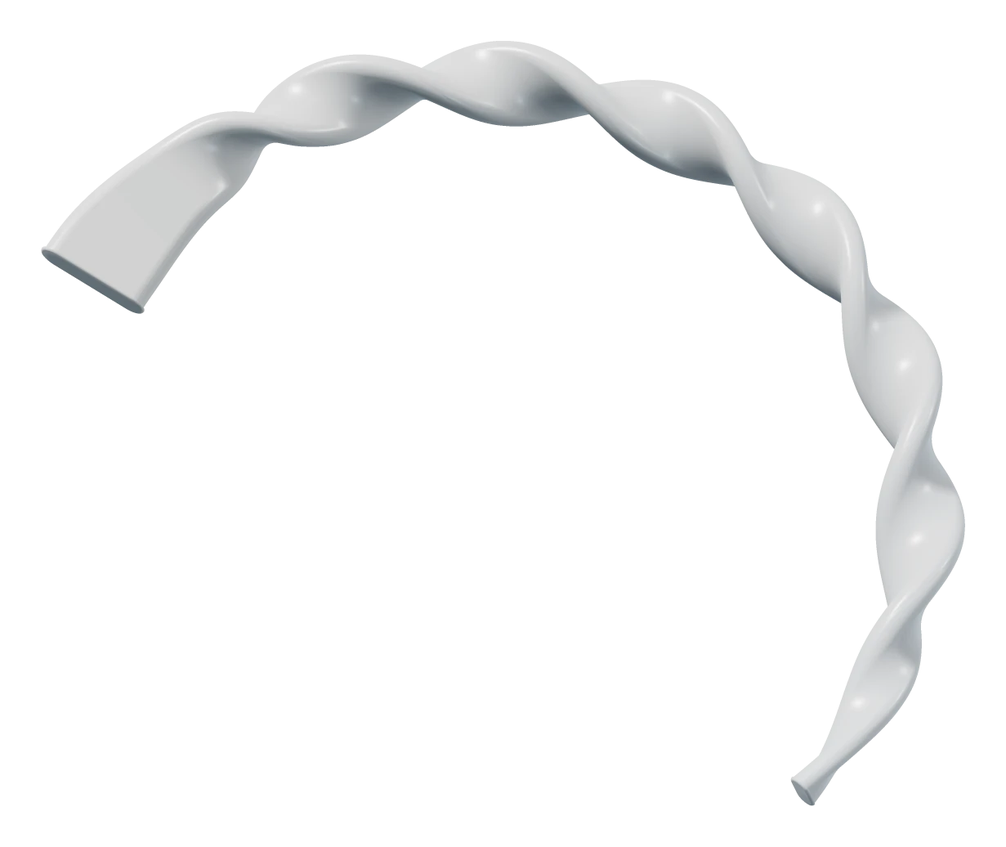
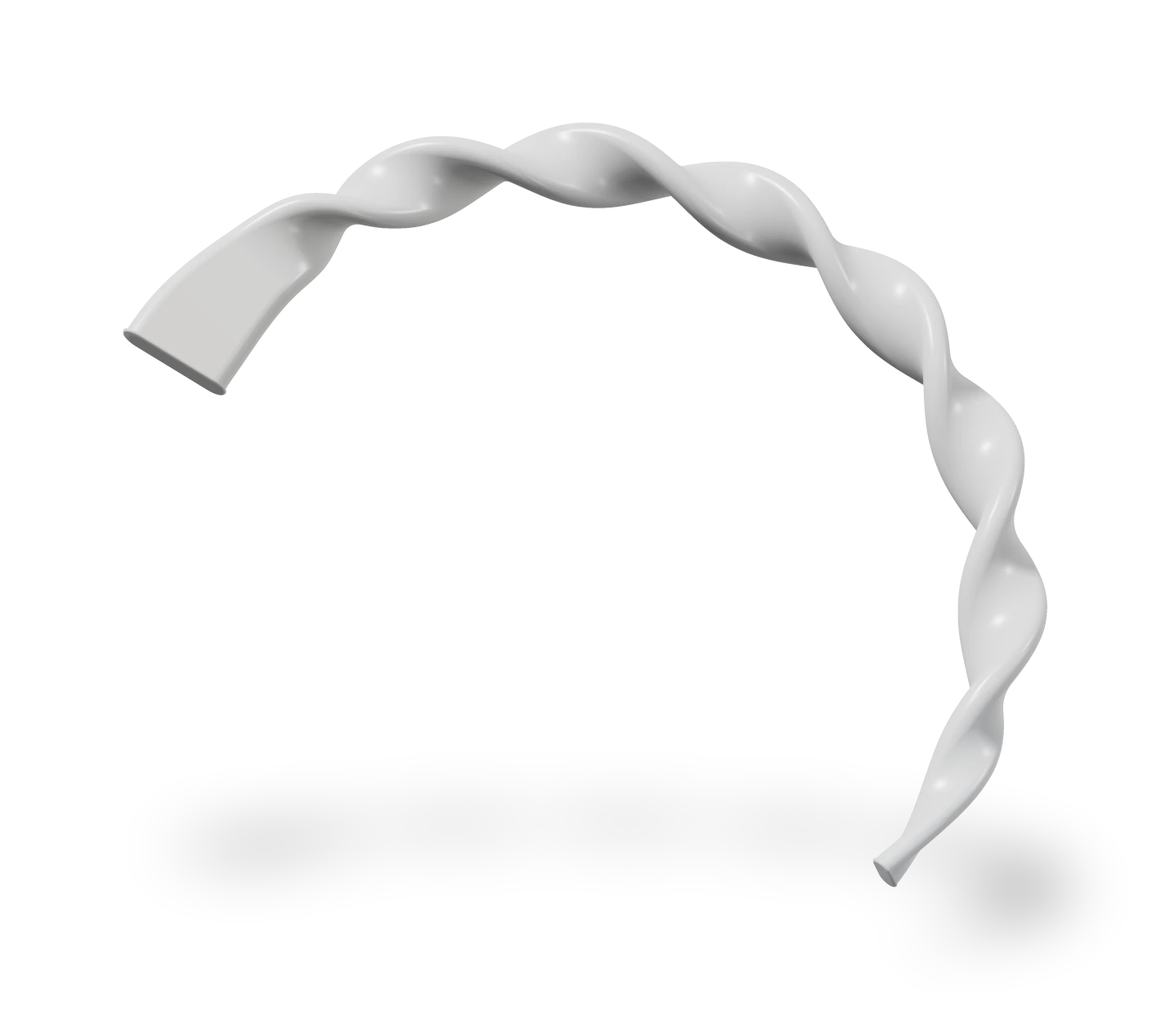
q3medical TOP-FIX B: one-colour H1; stent re-rendered with neutral light (render_b.js), soft floor shadow baked in, no slate or cool glow, neutral falloff; step 5 scroll
Claude-Session: https://claude.ai/code/session_014388NG1Z4TasdQgjB48bmb

Changed region(s): [[0.0309, 0.0309, 0.9569, 0.9575]]

diff --git a/_kit/home/q3medical/render_b.js b/_kit/home/q3medical/render_b.js
@@ -1,0 +1,109 @@
+// VARIANT B (TOP-FIX 2026-11-27; run: node render_b.js out.png 1604 1260 3, crop to the sent hero's 1231x1036 frame, then python3 shadow.py out.png hero.webp 100 - .16 .86 .03: a flat soft band on the floor under the arc, not a ghost arc inside it): render.js with neutral light only (BL fill/rim/strip grey instead of blue); key stays upper left = the headline side.
+/* Offline render of the Q3 Medical hero (HOME_BRIEF update option c, PRINCIPLES DS/DD/DT): the ARCHIMEDES biodegradable
+   biliary and pancreatic stent itself, as shown on q3medical.com/biodegradable.html (prod_archimedes.jpg): a satin, pearl-white
+   polymer band twisted into a helix (the "Archimedes screw" that gives it its name), lying in an open arc, with a flat untwisted
+   tab at its proximal end and a tapered distal tip. One calm object on the page ink. Raymarched in GLSL with studio softbox
+   reflections and a soft wrap/subsurface term for the polymer; real alpha, no box edge (DJ/DP).
+   Run: node _kit/home/q3medical/render.js out.png 1400 1100 3 */
+const {chromium}=require('playwright');const fs=require('fs');const path=require('path');
+const W=+(process.argv[3]||1400),H=+(process.argv[4]||1100),SS=+(process.argv[5]||3);
+const FS=`
+precision highp float;
+uniform vec2 R;
+#define PI 3.14159265
+const float RR=1.0,A0=-2.95,A1=0.50,HW=.100,HT=.036,TW=7.6;
+mat3 rx(float a){float c=cos(a),s=sin(a);return mat3(1,0,0,0,c,s,0,-s,c);}
+mat3 ry(float a){float c=cos(a),s=sin(a);return mat3(c,0,-s,0,1,0,s,0,c);}
+mat3 rz(float a){float c=cos(a),s=sin(a);return mat3(c,s,0,-s,c,0,0,0,1);}
+mat3 ROT;
+float SV=0.;
+float rbox(vec2 p,vec2 b,float r){vec2 q=abs(p)-b+r;return length(max(q,0.))+min(max(q.x,q.y),0.)-r;}
+/* half-width along the band: a flat, slightly flared tab at A0, a long taper to the tip at A1 */
+float hwAt(float c){float tab=smoothstep(A0+.42,A0+.05,c);float tip=smoothstep(A1-.95,A1,c);return HW*(1.+.30*tab)*(1.-.58*tip*tip);}
+float thAt(float c){float tip=smoothstep(A1-.6,A1,c);return HT*(1.-.35*tip);}
+/* twist angle: none along the tab, then the helix */
+float twAt(float c){float s=c-A0;float r=smoothstep(.18,.62,s);return TW*max(s-.30,0.)*r+.25;}
+/* distance to the band's cross-section at ring angle c, plus the longitudinal coordinate in that frame */
+float sec(vec3 q,float c,out float a){vec3 P=vec3(cos(c),0.,sin(c))*RR,U=vec3(cos(c),0.,sin(c)),T=vec3(-sin(c),0.,cos(c));
+  vec3 d=q-P;a=dot(d,T);float u=dot(d,U),v=d.y;float th=twAt(c);float cs=cos(th),sn=sin(th);
+  vec2 p=vec2(cs*u+sn*v,-sn*u+cs*v);float hw=hwAt(c),ht=thAt(c);return rbox(p,vec2(hw,ht),min(ht*.95,hw));}
+float map(vec3 p){
+  vec3 q=ROT*p;float ph=atan(q.z,q.x);float a;
+  if(ph>=A0&&ph<=A1){SV=(ph-A0)/(A1-A0);return sec(q,ph,a)*.55;}
+  /* outside the arc: distance to whichever end is nearer, as a rounded extrusion cap */
+  float a0,a1;float d0=sec(q,A0,a0),d1=sec(q,A1,a1);
+  float e0=-a0,e1=a1;
+  float r0=length(vec2(max(d0,0.),max(e0,0.)))+min(max(d0,e0),0.);
+  float r1=length(vec2(max(d1+.004,0.),max(e1,0.)))+min(max(d1,e1),0.);
+  /* round the tip: shrink the cap a touch with distance past the end */
+  if(r0<r1){SV=0.;return (r0-.006)*.6;}SV=1.;return (r1-.006)*.6;}
+float mapd(vec3 p){float s=SV;float d=map(p);SV=s;return d;}
+vec3 nrm(vec3 p){vec2 e=vec2(.0005,0.);return normalize(vec3(mapd(p+e.xyy)-mapd(p-e.xyy),mapd(p+e.yxy)-mapd(p-e.yxy),mapd(p+e.yyx)-mapd(p-e.yyx)));}
+float box2(vec2 p,vec2 c,vec2 h,float s){vec2 d=abs(p-c)-h;float o=length(max(d,0.))+min(max(d.x,d.y),0.);return 1.-smoothstep(-s,s,o);}
+vec3 BL=vec3(.70,.70,.70); /* TOP-FIX B 2026-11-27: the cool fill, bounce strip and rim are neutral now (was .55,.74,.88) */
+vec3 env(vec3 d){float az=atan(d.x,d.z),el=asin(clamp(d.y,-1.,1.));vec3 c=vec3(.006,.010,.016)+vec3(.03,.035,.045)*max(d.y,0.);
+  c+=vec3(1.,.99,.97)*2.0*box2(vec2(az,el),vec2(-.6,.85),vec2(.70,.30),.30);
+  c+=vec3(.95,.97,1.)*.9*box2(vec2(az,el),vec2(.9,.30),vec2(.30,.22),.20);
+  c+=BL*.8*box2(vec2(az,el),vec2(2.3,.05),vec2(.40,.5),.30);
+  c+=vec3(.7,.74,.8)*.30*box2(vec2(az,el),vec2(0.,-.9),vec2(1.2,.25),.4);
+  return c;}
+vec3 L1=normalize(vec3(-.6,.75,.50)),L2=normalize(vec3(.8,.3,.3)),L3=normalize(vec3(.3,-.5,.6));
+float ggx(vec3 n,vec3 v,vec3 l,float r){vec3 h=normalize(v+l);float a=r*r,nh=max(dot(n,h),0.);float dd=nh*nh*(a*a-1.)+1.;return a*a/(PI*dd*dd);}
+float ao(vec3 p,vec3 n){float o=0.,s=1.;for(int i=1;i<5;i++){float h=.010*float(i);o+=(h-mapd(p+n*h))*s;s*=.65;}return clamp(1.-3.5*o,0.,1.);}
+float sha(vec3 p,vec3 l){float r=1.,t=.01;for(int i=0;i<48;i++){float h=mapd(p+l*t);r=min(r,10.*h/t);t+=clamp(h,.004,.06);if(r<.01||t>2.5)break;}return clamp(r,0.,1.);}
+vec3 aces(vec3 x){return clamp((x*(2.51*x+.03))/(x*(2.43*x+.59)+.14),0.,1.);}
+vec4 trace(vec3 ro,vec3 rd){
+  float t=0.,d;bool hit=false;
+  for(int i=0;i<320;i++){vec3 p=ro+rd*t;d=map(p);if(d<.0002){hit=true;break;}t+=d;if(t>9.)break;}
+  if(!hit)return vec4(0.);
+  vec3 p=ro+rd*t,v=-rd;float sv=SV;vec3 n=nrm(p);
+  /* satin pearl polymer, faintly warmer toward the tab */
+  vec3 base=mix(vec3(.90,.89,.87),vec3(.87,.89,.91),sv);float rough=.30;
+  float oc=ao(p,n);vec3 col=vec3(0.);
+  float nv=max(dot(n,v),0.);vec3 F0=vec3(.04);vec3 F=F0+(1.-F0)*pow(1.-nv,5.);
+  for(int i=0;i<3;i++){vec3 l=i==0?L1:(i==1?L2:L3);float k=i==0?1.15:(i==1?.34:.16);vec3 lc=i==2?BL:vec3(1.);
+    float nl=dot(n,l);float dl=max(nl,0.);float wrap=max((nl+.45)/1.45,0.);float sh=i==0?mix(.22,1.,sha(p+n*.003,l)):1.;
+    col+=lc*k*sh*(base/PI*3.*mix(dl,wrap,.30)+F*ggx(n,v,l,rough)*.8);}
+  /* soft translucency: light scattering through the thin polymer */
+  col+=vec3(1.,.97,.92)*.10*pow(max(dot(-n,L1),0.),1.5);
+  vec3 r=reflect(rd,n);vec3 e=env(r);
+  col+=e*F*.55*oc;
+  col+=base*.035*oc;
+  col+=BL*.22*pow(1.-nv,3.)*oc;
+  col*=mix(.6,1.,oc);
+  float fade=1.;
+  return vec4(col,fade);}
+void main(){
+  ROT=ry(.20)*rx(-1.22)*rz(.10);
+  vec3 ro0=vec3(0.,0.,5.2),ta=vec3(0.,.0,0.);
+  vec3 ww=normalize(ta-ro0),uu=normalize(cross(ww,vec3(0,1,0))),vv=cross(uu,ww);
+  vec4 acc=vec4(0.);float n=float(${SS});
+  for(int j=0;j<${SS};j++)for(int i=0;i<${SS};i++){
+    vec2 o=(vec2(float(i),float(j))+.5)/n-.5;
+    vec2 uv=(gl_FragCoord.xy+o-.5*R)/R.y;
+    vec3 rd=normalize(uv.x*uu+uv.y*vv+2.25*ww);
+    vec4 s=trace(ro0,rd);acc+=vec4(s.rgb*s.a,s.a);}
+  acc/=n*n;vec3 c=acc.a>0.?acc.rgb/acc.a:vec3(0.);
+  c=pow(aces(c*.74),vec3(1./2.2));
+  gl_FragColor=vec4(c,acc.a);}
+`;
+const PAGE=`<!doctype html><html><body style="margin:0;background:transparent"><canvas id="c" width="${W}" height="${H}"></canvas><script>
+const cv=document.getElementById('c');const gl=cv.getContext('webgl',{preserveDrawingBuffer:true,premultipliedAlpha:false,alpha:true,antialias:false});
+function sh(t,s){const o=gl.createShader(t);gl.shaderSource(o,s);gl.compileShader(o);if(!gl.getShaderParameter(o,gl.COMPILE_STATUS))throw Error(gl.getShaderInfoLog(o));return o}
+const pr=gl.createProgram();gl.attachShader(pr,sh(gl.VERTEX_SHADER,'attribute vec2 a;void main(){gl_Position=vec4(a,0.,1.);}'));
+gl.attachShader(pr,sh(gl.FRAGMENT_SHADER,${JSON.stringify(FS)}));gl.linkProgram(pr);if(!gl.getProgramParameter(pr,gl.LINK_STATUS))throw Error(gl.getProgramInfoLog(pr));gl.useProgram(pr);
+const b=gl.createBuffer();gl.bindBuffer(gl.ARRAY_BUFFER,b);gl.bufferData(gl.ARRAY_BUFFER,new Float32Array([-1,-1,1,-1,-1,1,1,1]),gl.STATIC_DRAW);
+const al=gl.getAttribLocation(pr,'a');gl.enableVertexAttribArray(al);gl.vertexAttribPointer(al,2,gl.FLOAT,false,0,0);
+gl.uniform2f(gl.getUniformLocation(pr,'R'),${W},${H});
+gl.clearColor(0,0,0,0);gl.clear(gl.COLOR_BUFFER_BIT);gl.enable(gl.SCISSOR_TEST);
+const T=40;let y=0;(function tile(){if(y>=${H}){window.__done=cv.toDataURL('image/png');return}gl.scissor(0,y,${W},T);gl.drawArrays(gl.TRIANGLE_STRIP,0,4);gl.finish();y+=T;setTimeout(tile,0)})();
+</script></body></html>`;
+(async()=>{
+const b=await chromium.launch({args:['--use-gl=angle','--use-angle=swiftshader','--enable-unsafe-swiftshader','--ignore-gpu-blocklist','--disable-gpu-watchdog']});
+const p=await b.newPage({viewport:{width:800,height:600}});
+p.on('console',m=>{if(!/Performance/.test(m.text()))console.log('page:',m.text())});p.on('pageerror',e=>{console.log('err',e.message);process.exit(1)});
+await p.setContent(PAGE);
+await p.waitForFunction(()=>window.__done,null,{timeout:3600000,polling:1000});
+const out=process.argv[2]||path.join(__dirname,'render.png');
+fs.writeFileSync(out,Buffer.from((await p.evaluate(()=>window.__done)).split(',')[1],'base64'));
+console.log('wrote',out);await b.close();})();

diff --git a/_kit/src/q3medical.src.html b/_kit/src/q3medical.src.html
@@ -850,6 +850,8 @@ div.mh-row{grid-template-columns:minmax(0,4fr) minmax(0,3fr) minmax(0,5fr) 24px}
 .pfr .tg b{color:var(--accL)}
 .ev dd{font-size:clamp(18px,1.4vw,21px)}
 .cinfo p a{font-size:.9em}
+/* TOP-FIX 2026-11-27: the hero headline in one colour and one style (no italic accent second line) */
+.hero-h em{font-style:normal;font-weight:inherit;color:inherit}
 </style>
 </head>
 </head>
@@ -1100,11 +1102,12 @@ function unmask(s){if(!s)return;(s.masks||[]).forEach(function(m){m.style.overfl
 /*<R:field>*//* ================= HERO FIELD: a crafted render of Q3 Medical's real product (HOME_BRIEF update 2c): the ARCHIMEDES
    biodegradable biliary and pancreatic stent, a satin pearl polymer band twisted into a helix, lying in an open arc with its
    flat tab and tapered tip, as on q3medical.com/biodegradable.html. Raymarched offline by render.js with real alpha, baked to
-   hero.webp; here it breathes in a slow Ken Burns drift with a faint cool glow behind it. On phones it sits in the top band
+   hero.webp; here it breathes in a slow Ken Burns drift. TOP-FIX B 2026-11-27: re-rendered by render_b.js with neutral
+   light only, a soft cast shadow baked in (shadow.py), no glow behind it. On phones it sits in the top band
    and fades into the ink above the text (CW). ================= */
 var field=(function(){
   var cv=$("#field"),c=cv.getContext("2d"),dpr=1,w=0,h=0,running=false,raf=0,t0=performance.now(),shown=false;
-  var IN={v:1},dim=1,dimT=1,SP={v:0},G=null,img=new Image(),ok=false;
+  var IN={v:1},dim=1,dimT=1,SP={v:0},HY=0,G=null,img=new Image(),ok=false;
   var BG="#121820";
   img.decoding="async";img.onload=function(){ok=true;if(!running)frame(true)};img.src="hero.webp";
   function h1r(){var r=0;["#view .hero h1","#view .hero .eyebrow","#view .hero-foot p"].forEach(function(q){var e=document.querySelector(q);if(!e)return;try{var tw=document.createTreeWalker(e,4),n,g=document.createRange();while(n=tw.nextNode()){if(!n.nodeValue.trim())continue;g.selectNodeContents(n);[].forEach.call(g.getClientRects(),function(b){if(b.width>0&&b.right>r)r=b.right})}}catch(_){}});return r}
@@ -1132,18 +1135,14 @@ var field=(function(){
     if(ok){
       /* a very slow breath: push in ~3% and drift up a touch over ~44s, eased back and forth (scaled about the image centre) */
       var k=.5-.5*Math.cos(t*Math.PI*2/44),sc=(1+.03*k)*(1+.035*(1-e));
-      var dw=G.iw*sc,dh=G.ih*sc,x=G.kx-dw*.5,y=G.ky-dh*.5-k*G.ih*.008-SP.v*G.ih*.05;
-      /* a low slate glow, painted across the WHOLE canvas (never inside the image rect alone), so no edge of the
-         baked render can read as a pasted box (DJ) */
-      var ggx=G.mob?w*.5:G.kx,ggy=G.mob?G.bh*.45:h*.48,ggr=Math.max(w,h)*.7;
-      var ag=c.createRadialGradient(ggx,ggy,0,ggx,ggy,ggr);
-      ag.addColorStop(0,"rgba(34,46,60,"+(.6*e).toFixed(3)+")");ag.addColorStop(.55,"rgba(24,34,46,"+(.3*e).toFixed(3)+")");ag.addColorStop(1,"rgba(18,24,32,0)");
-      c.fillStyle=ag;c.fillRect(0,0,w,h);
-      /* a faint cool glow behind the stent, breathing every ~9s */
-      var pu=.5+.5*Math.sin(t*Math.PI*2/9),px=x+dw*LX,py=y+dh*LY,pr=dw*.40;
-      var rg=c.createRadialGradient(px,py,0,px,py,pr);rg.addColorStop(0,"rgba(127,182,214,"+((.07+.04*pu)*e).toFixed(3)+")");rg.addColorStop(1,"rgba(127,182,214,0)");
-      c.fillStyle=rg;c.fillRect(0,0,w,h);
-      c.globalAlpha=e;c.drawImage(img,x,y,dw,dh);c.globalAlpha=1;
+      var dw=G.iw*sc,dh=G.ih*sc,x=G.kx-dw*.5,y=G.ky-dh*.5-k*G.ih*.008+HY;
+      /* TOP-FIX B: a very faint neutral falloff on the ground, up and toward the headline side (about 2-3%, never coloured) */
+      var fx=G.mob?w*.5:x+dw*.25,fy=G.mob?G.bh*.4:y+dh*.25,fr=Math.max(w,h)*.62;
+      var fo=c.createRadialGradient(fx,fy,0,fx,fy,fr);fo.addColorStop(0,"rgba(255,255,255,"+(.03*e).toFixed(4)+")");fo.addColorStop(.55,"rgba(255,255,255,"+(.011*e).toFixed(4)+")");fo.addColorStop(1,"rgba(255,255,255,0)");
+      c.fillStyle=fo;c.fillRect(0,0,w,h);
+      /* hero.webp carries PAD px of transparent margin with the soft cast shadow, so the stent lands where the sent render put it */
+      var PX=100/1231,PY=100/1036;
+      c.globalAlpha=e;c.drawImage(img,x-dw*PX,y-dh*PY,dw*(1+2*PX),dh*(1+2*PY));c.globalAlpha=1;
       if(!G.mob){
         /* the headline side stays quiet (DI): an ink wash from the left, a soft top and base */
         var lv=c.createLinearGradient(0,0,G.side+G.cw*.54,0);lv.addColorStop(0,"rgba(12,17,23,.95)");lv.addColorStop(.6,"rgba(12,17,23,.55)");lv.addColorStop(1,"rgba(12,17,23,0)");c.fillStyle=lv;c.fillRect(0,0,w,h);
@@ -1163,7 +1162,11 @@ var field=(function(){
   var rzT;addEventListener("resize",function(){clearTimeout(rzT);rzT=setTimeout(size,120)});size();
   /* re-measure the headline once the web fonts and the title reveal have settled, so the 100px clearance holds (DP) */
   try{document.fonts.ready.then(function(){setTimeout(size,60)})}catch(_){}setTimeout(size,2600);setTimeout(size,6500);
-  return {start:start,stop:stop,once:function(){frame(true)},setScroll:function(p){SP.v=Math.round(p*40)/40},
+  return {start:start,stop:stop,once:function(){frame(true)},setScroll:function(p){SP.v=p;
+    /* TOP-FIX step 5 (2026-11-27): the stent scrolls up 1:1 with the hero on desktop (RECIPE_NOTES section 6), back home once the hero has left */
+    var hy=0,hr=G&&!G.mob?document.querySelector("#view #hero"):null;
+    if(hr){var b=hr.getBoundingClientRect();if(b.bottom>0)hy=Math.min(0,b.top)}
+    if(hy!==HY){HY=hy;frame(true)}},
     intro:function(d){if(RM){IN.v=1;return}IN.v=0;gsap.to(IN,{v:1,duration:d,ease:"power2.out"})},setDim:function(d){dimT=d},snapDim:function(d){dim=dimT=d},running:function(){return running},focus:function(){return G?[G.kx,G.ky]:[w/2,h/2]}};
 })();/*</R:field>*/
 
@@ -1501,7 +1504,7 @@ function preload(){
       var tl=gsap.timeline({onComplete:function(){pre.remove();unlockScroll();gsap.set("#hdr",{clearProps:"transform"});hdrTheme();failsafe()}});
       tl.to(o,{n:100,duration:.25,ease:"power1.out",onUpdate:upd},0)
         .to(wm.chars,{yPercent:-120,opacity:0,duration:.38,ease:"power3.in",stagger:.012},.08)
-        .to(["#pre .mk","#pre .cnt","#pre .bar","#pre .pl"],{opacity:0,duration:.3,ease:"power2.in"},.12)
+        .to("#pre .mk",{y:-64,opacity:0,duration:.62,ease:"power3.in"},.04).to(["#pre .cnt","#pre .bar","#pre .pl"],{y:-24,opacity:0,duration:.4,ease:"power2.in"},.1)
         .add(function(){field.intro(2);field.start()},mob?1.0:.95).fromTo("#field",{filter:"opacity(0)"},{filter:"opacity(1)",duration:1.8,ease:"power2.out",clearProps:"filter"},mob?1.0:.95)
         .add(function(){if(window._heroIn)window._heroIn.play()},mob?1.0:.95)
         .to(pre,{yPercent:-100,duration:.85,ease:"flow"},mob?.62:.42)

diff --git a/q3medical/index.html b/q3medical/index.html
@@ -856,6 +856,8 @@ div.mh-row{grid-template-columns:minmax(0,4fr) minmax(0,3fr) minmax(0,5fr) 24px}
 .pfr .tg b{color:var(--accL)}
 .ev dd{font-size:clamp(18px,1.4vw,21px)}
 .cinfo p a{font-size:.9em}
+/* TOP-FIX 2026-11-27: the hero headline in one colour and one style (no italic accent second line) */
+.hero-h em{font-style:normal;font-weight:inherit;color:inherit}
 </style>
 </head>
 </head>
@@ -1666,11 +1668,12 @@ function unmask(s){if(!s)return;(s.masks||[]).forEach(function(m){m.style.overfl
 /*<R:field>*//* ================= HERO FIELD: a crafted render of Q3 Medical's real product (HOME_BRIEF update 2c): the ARCHIMEDES
    biodegradable biliary and pancreatic stent, a satin pearl polymer band twisted into a helix, lying in an open arc with its
    flat tab and tapered tip, as on q3medical.com/biodegradable.html. Raymarched offline by render.js with real alpha, baked to
-   hero.webp; here it breathes in a slow Ken Burns drift with a faint cool glow behind it. On phones it sits in the top band
+   hero.webp; here it breathes in a slow Ken Burns drift. TOP-FIX B 2026-11-27: re-rendered by render_b.js with neutral
+   light only, a soft cast shadow baked in (shadow.py), no glow behind it. On phones it sits in the top band
    and fades into the ink above the text (CW). ================= */
 var field=(function(){
   var cv=$("#field"),c=cv.getContext("2d"),dpr=1,w=0,h=0,running=false,raf=0,t0=performance.now(),shown=false;
-  var IN={v:1},dim=1,dimT=1,SP={v:0},G=null,img=new Image(),ok=false;
+  var IN={v:1},dim=1,dimT=1,SP={v:0},HY=0,G=null,img=new Image(),ok=false;
   var BG="#121820";
   img.decoding="async";img.onload=function(){ok=true;if(!running)frame(true)};img.src="hero.webp";
   function h1r(){var r=0;["#view .hero h1","#view .hero .eyebrow","#view .hero-foot p"].forEach(function(q){var e=document.querySelector(q);if(!e)return;try{var tw=document.createTreeWalker(e,4),n,g=document.createRange();while(n=tw.nextNode()){if(!n.nodeValue.trim())continue;g.selectNodeContents(n);[].forEach.call(g.getClientRects(),function(b){if(b.width>0&&b.right>r)r=b.right})}}catch(_){}});return r}
@@ -1698,18 +1701,14 @@ var field=(function(){
     if(ok){
       /* a very slow breath: push in ~3% and drift up a touch over ~44s, eased back and forth (scaled about the image centre) */
       var k=.5-.5*Math.cos(t*Math.PI*2/44),sc=(1+.03*k)*(1+.035*(1-e));
-      var dw=G.iw*sc,dh=G.ih*sc,x=G.kx-dw*.5,y=G.ky-dh*.5-k*G.ih*.008-SP.v*G.ih*.05;
-      /* a low slate glow, painted across the WHOLE canvas (never inside the image rect alone), so no edge of the
-         baked render can read as a pasted box (DJ) */
-      var ggx=G.mob?w*.5:G.kx,ggy=G.mob?G.bh*.45:h*.48,ggr=Math.max(w,h)*.7;
-      var ag=c.createRadialGradient(ggx,ggy,0,ggx,ggy,ggr);
-      ag.addColorStop(0,"rgba(34,46,60,"+(.6*e).toFixed(3)+")");ag.addColorStop(.55,"rgba(24,34,46,"+(.3*e).toFixed(3)+")");ag.addColorStop(1,"rgba(18,24,32,0)");
-      c.fillStyle=ag;c.fillRect(0,0,w,h);
-      /* a faint cool glow behind the stent, breathing every ~9s */
-      var pu=.5+.5*Math.sin(t*Math.PI*2/9),px=x+dw*LX,py=y+dh*LY,pr=dw*.40;
-      var rg=c.createRadialGradient(px,py,0,px,py,pr);rg.addColorStop(0,"rgba(127,182,214,"+((.07+.04*pu)*e).toFixed(3)+")");rg.addColorStop(1,"rgba(127,182,214,0)");
-      c.fillStyle=rg;c.fillRect(0,0,w,h);
-      c.globalAlpha=e;c.drawImage(img,x,y,dw,dh);c.globalAlpha=1;
+      var dw=G.iw*sc,dh=G.ih*sc,x=G.kx-dw*.5,y=G.ky-dh*.5-k*G.ih*.008+HY;
+      /* TOP-FIX B: a very faint neutral falloff on the ground, up and toward the headline side (about 2-3%, never coloured) */
+      var fx=G.mob?w*.5:x+dw*.25,fy=G.mob?G.bh*.4:y+dh*.25,fr=Math.max(w,h)*.62;
+      var fo=c.createRadialGradient(fx,fy,0,fx,fy,fr);fo.addColorStop(0,"rgba(255,255,255,"+(.03*e).toFixed(4)+")");fo.addColorStop(.55,"rgba(255,255,255,"+(.011*e).toFixed(4)+")");fo.addColorStop(1,"rgba(255,255,255,0)");
+      c.fillStyle=fo;c.fillRect(0,0,w,h);
+      /* hero.webp carries PAD px of transparent margin with the soft cast shadow, so the stent lands where the sent render put it */
+      var PX=100/1231,PY=100/1036;
+      c.globalAlpha=e;c.drawImage(img,x-dw*PX,y-dh*PY,dw*(1+2*PX),dh*(1+2*PY));c.globalAlpha=1;
       if(!G.mob){
         /* the headline side stays quiet (DI): an ink wash from the left, a soft top and base */
         var lv=c.createLinearGradient(0,0,G.side+G.cw*.54,0);lv.addColorStop(0,"rgba(12,17,23,.95)");lv.addColorStop(.6,"rgba(12,17,23,.55)");lv.addColorStop(1,"rgba(12,17,23,0)");c.fillStyle=lv;c.fillRect(0,0,w,h);
@@ -1729,7 +1728,11 @@ var field=(function(){
   var rzT;addEventListener("resize",function(){clearTimeout(rzT);rzT=setTimeout(size,120)});size();
   /* re-measure the headline once the web fonts and the title reveal have settled, so the 100px clearance holds (DP) */
   try{document.fonts.ready.then(function(){setTimeout(size,60)})}catch(_){}setTimeout(size,2600);setTimeout(size,6500);
-  return {start:start,stop:stop,once:function(){frame(true)},setScroll:function(p){SP.v=Math.round(p*40)/40},
+  return {start:start,stop:stop,once:function(){frame(true)},setScroll:function(p){SP.v=p;
+    /* TOP-FIX step 5 (2026-11-27): the stent scrolls up 1:1 with the hero on desktop (RECIPE_NOTES section 6), back home once the hero has left */
+    var hy=0,hr=G&&!G.mob?document.querySelector("#view #hero"):null;
+    if(hr){var b=hr.getBoundingClientRect();if(b.bottom>0)hy=Math.min(0,b.top)}
+    if(hy!==HY){HY=hy;frame(true)}},
     intro:function(d){if(RM){IN.v=1;return}IN.v=0;gsap.to(IN,{v:1,duration:d,ease:"power2.out"})},setDim:function(d){dimT=d},snapDim:function(d){dim=dimT=d},running:function(){return running},focus:function(){return G?[G.kx,G.ky]:[w/2,h/2]}};
 })();/*</R:field>*/
 
@@ -2067,7 +2070,7 @@ function preload(){
       var tl=gsap.timeline({onComplete:function(){pre.remove();unlockScroll();gsap.set("#hdr",{clearProps:"transform"});hdrTheme();failsafe()}});
       tl.to(o,{n:100,duration:.25,ease:"power1.out",onUpdate:upd},0)
         .to(wm.chars,{yPercent:-120,opacity:0,duration:.38,ease:"power3.in",stagger:.012},.08)
-        .to(["#pre .mk","#pre .cnt","#pre .bar","#pre .pl"],{opacity:0,duration:.3,ease:"power2.in"},.12)
+        .to("#pre .mk",{y:-64,opacity:0,duration:.62,ease:"power3.in"},.04).to(["#pre .cnt","#pre .bar","#pre .pl"],{y:-24,opacity:0,duration:.4,ease:"power2.in"},.1)
         .add(function(){field.intro(2);field.start()},mob?1.0:.95).fromTo("#field",{filter:"opacity(0)"},{filter:"opacity(1)",duration:1.8,ease:"power2.out",clearProps:"filter"},mob?1.0:.95)
         .add(function(){if(window._heroIn)window._heroIn.play()},mob?1.0:.95)
         .to(pre,{yPercent:-100,duration:.85,ease:"flow"},mob?.62:.42)

diff --git a/_kit/home/q3medical/field.js b/_kit/home/q3medical/field.js
@@ -1,11 +1,12 @@
 /* ================= HERO FIELD: a crafted render of Q3 Medical's real product (HOME_BRIEF update 2c): the ARCHIMEDES
    biodegradable biliary and pancreatic stent, a satin pearl polymer band twisted into a helix, lying in an open arc with its
    flat tab and tapered tip, as on q3medical.com/biodegradable.html. Raymarched offline by render.js with real alpha, baked to
-   hero.webp; here it breathes in a slow Ken Burns drift with a faint cool glow behind it. On phones it sits in the top band
+   hero.webp; here it breathes in a slow Ken Burns drift. TOP-FIX B 2026-11-27: re-rendered by render_b.js with neutral
+   light only, a soft cast shadow baked in (shadow.py), no glow behind it. On phones it sits in the top band
    and fades into the ink above the text (CW). ================= */
 var field=(function(){
   var cv=$("#field"),c=cv.getContext("2d"),dpr=1,w=0,h=0,running=false,raf=0,t0=performance.now(),shown=false;
-  var IN={v:1},dim=1,dimT=1,SP={v:0},G=null,img=new Image(),ok=false;
+  var IN={v:1},dim=1,dimT=1,SP={v:0},HY=0,G=null,img=new Image(),ok=false;
   var BG="#121820";
   img.decoding="async";img.onload=function(){ok=true;if(!running)frame(true)};img.src="hero.webp";
   function h1r(){var r=0;["#view .hero h1","#view .hero .eyebrow","#view .hero-foot p"].forEach(function(q){var e=document.querySelector(q);if(!e)return;try{var tw=document.createTreeWalker(e,4),n,g=document.createRange();while(n=tw.nextNode()){if(!n.nodeValue.trim())continue;g.selectNodeContents(n);[].forEach.call(g.getClientRects(),function(b){if(b.width>0&&b.right>r)r=b.right})}}catch(_){}});return r}
@@ -33,18 +34,14 @@ var field=(function(){
     if(ok){
       /* a very slow breath: push in ~3% and drift up a touch over ~44s, eased back and forth (scaled about the image centre) */
       var k=.5-.5*Math.cos(t*Math.PI*2/44),sc=(1+.03*k)*(1+.035*(1-e));
-      var dw=G.iw*sc,dh=G.ih*sc,x=G.kx-dw*.5,y=G.ky-dh*.5-k*G.ih*.008-SP.v*G.ih*.05;
-      /* a low slate glow, painted across the WHOLE canvas (never inside the image rect alone), so no edge of the
-         baked render can read as a pasted box (DJ) */
-      var ggx=G.mob?w*.5:G.kx,ggy=G.mob?G.bh*.45:h*.48,ggr=Math.max(w,h)*.7;
-      var ag=c.createRadialGradient(ggx,ggy,0,ggx,ggy,ggr);
-      ag.addColorStop(0,"rgba(34,46,60,"+(.6*e).toFixed(3)+")");ag.addColorStop(.55,"rgba(24,34,46,"+(.3*e).toFixed(3)+")");ag.addColorStop(1,"rgba(18,24,32,0)");
-      c.fillStyle=ag;c.fillRect(0,0,w,h);
-      /* a faint cool glow behind the stent, breathing every ~9s */
-      var pu=.5+.5*Math.sin(t*Math.PI*2/9),px=x+dw*LX,py=y+dh*LY,pr=dw*.40;
-      var rg=c.createRadialGradient(px,py,0,px,py,pr);rg.addColorStop(0,"rgba(127,182,214,"+((.07+.04*pu)*e).toFixed(3)+")");rg.addColorStop(1,"rgba(127,182,214,0)");
-      c.fillStyle=rg;c.fillRect(0,0,w,h);
-      c.globalAlpha=e;c.drawImage(img,x,y,dw,dh);c.globalAlpha=1;
+      var dw=G.iw*sc,dh=G.ih*sc,x=G.kx-dw*.5,y=G.ky-dh*.5-k*G.ih*.008+HY;
+      /* TOP-FIX B: a very faint neutral falloff on the ground, up and toward the headline side (about 2-3%, never coloured) */
+      var fx=G.mob?w*.5:x+dw*.25,fy=G.mob?G.bh*.4:y+dh*.25,fr=Math.max(w,h)*.62;
+      var fo=c.createRadialGradient(fx,fy,0,fx,fy,fr);fo.addColorStop(0,"rgba(255,255,255,"+(.03*e).toFixed(4)+")");fo.addColorStop(.55,"rgba(255,255,255,"+(.011*e).toFixed(4)+")");fo.addColorStop(1,"rgba(255,255,255,0)");
+      c.fillStyle=fo;c.fillRect(0,0,w,h);
+      /* hero.webp carries PAD px of transparent margin with the soft cast shadow, so the stent lands where the sent render put it */
+      var PX=100/1231,PY=100/1036;
+      c.globalAlpha=e;c.drawImage(img,x-dw*PX,y-dh*PY,dw*(1+2*PX),dh*(1+2*PY));c.globalAlpha=1;
       if(!G.mob){
         /* the headline side stays quiet (DI): an ink wash from the left, a soft top and base */
         var lv=c.createLinearGradient(0,0,G.side+G.cw*.54,0);lv.addColorStop(0,"rgba(12,17,23,.95)");lv.addColorStop(.6,"rgba(12,17,23,.55)");lv.addColorStop(1,"rgba(12,17,23,0)");c.fillStyle=lv;c.fillRect(0,0,w,h);
@@ -64,6 +61,10 @@ var field=(function(){
   var rzT;addEventListener("resize",function(){clearTimeout(rzT);rzT=setTimeout(size,120)});size();
   /* re-measure the headline once the web fonts and the title reveal have settled, so the 100px clearance holds (DP) */
   try{document.fonts.ready.then(function(){setTimeout(size,60)})}catch(_){}setTimeout(size,2600);setTimeout(size,6500);
-  return {start:start,stop:stop,once:function(){frame(true)},setScroll:function(p){SP.v=Math.round(p*40)/40},
+  return {start:start,stop:stop,once:function(){frame(true)},setScroll:function(p){SP.v=p;
+    /* TOP-FIX step 5 (2026-11-27): the stent scrolls up 1:1 with the hero on desktop (RECIPE_NOTES section 6), back home once the hero has left */
+    var hy=0,hr=G&&!G.mob?document.querySelector("#view #hero"):null;
+    if(hr){var b=hr.getBoundingClientRect();if(b.bottom>0)hy=Math.min(0,b.top)}
+    if(hy!==HY){HY=hy;frame(true)}},
     intro:function(d){if(RM){IN.v=1;return}IN.v=0;gsap.to(IN,{v:1,duration:d,ease:"power2.out"})},setDim:function(d){dimT=d},snapDim:function(d){dim=dimT=d},running:function(){return running},focus:function(){return G?[G.kx,G.ky]:[w/2,h/2]}};
 })();

diff --git a/_kit/home/q3medical/extra.css b/_kit/home/q3medical/extra.css
@@ -219,3 +219,5 @@ div.mh-row{grid-template-columns:minmax(0,4fr) minmax(0,3fr) minmax(0,5fr) 24px}
 .pfr .tg b{color:var(--accL)}
 .ev dd{font-size:clamp(18px,1.4vw,21px)}
 .cinfo p a{font-size:.9em}
+/* TOP-FIX 2026-11-27: the hero headline in one colour and one style (no italic accent second line) */
+.hero-h em{font-style:normal;font-weight:inherit;color:inherit}

diff --git a/_kit/home/q3medical/shadow.py b/_kit/home/q3medical/shadow.py
@@ -1,0 +1,28 @@
+#!/usr/bin/env python3
+"""TOP-FIX B 2026-11-27 (RECIPE_NOTES section 3): bake a faint soft cast shadow into a padded copy of the hero image.
+The silhouette (alpha) is squashed to 55% height, shifted 40% of the height down and 3.5% of the width away from the
+key (the key is upper left on the page, so +x unless MIRROR), blurred by 2.2% of the width, 0.34 black; the object is
+composited over it unchanged, in PAD px of transparent margin on every side. The object's own pixels are not relit.
+Usage: python3 shadow.py in.webp out.webp [PAD] [mirror|-] [SQUASH=.55] [SHIFT=.40] [BLUR=.022]"""
+import sys, numpy as np
+from PIL import Image, ImageFilter
+src, out = sys.argv[1], sys.argv[2]
+PAD = int(sys.argv[3]) if len(sys.argv) > 3 else 120
+MIR = len(sys.argv) > 4 and sys.argv[4] == 'mirror'
+SQ = float(sys.argv[5]) if len(sys.argv) > 5 else 0.55
+SHF = float(sys.argv[6]) if len(sys.argv) > 6 else 0.40
+BL = float(sys.argv[7]) if len(sys.argv) > 7 else 0.022
+im = Image.open(src).convert('RGBA'); FW, FH = im.size
+a = np.asarray(im, float)[..., 3]/255
+sil = im.getchannel('A')
+sh = Image.new('L', (FW+2*PAD, FH+2*PAD), 0)
+dx = int(FW*0.035)*(-1 if MIR else 1)
+sh.paste(sil.resize((FW, int(FH*SQ))), (PAD+dx, PAD+int(FH*SHF)))
+sh = sh.filter(ImageFilter.GaussianBlur(FW*BL))
+sha = np.asarray(sh, float)/255*0.34
+obj = np.zeros((FH+2*PAD, FW+2*PAD, 3)); oa = np.zeros((FH+2*PAD, FW+2*PAD))
+obj[PAD:PAD+FH, PAD:PAD+FW] = np.asarray(im, float)[..., :3]/255; oa[PAD:PAD+FH, PAD:PAD+FW] = a
+outa = oa + sha*(1-oa)
+outc = np.where(outa[..., None] > 0, obj*oa[..., None]/np.maximum(outa[..., None], 1e-6), 0)
+Image.fromarray(np.dstack([outc*255, outa*255]).clip(0, 255).astype(np.uint8), 'RGBA').save(out, quality=92, method=6)
+print(out, FW, FH, 'pad', PAD)
